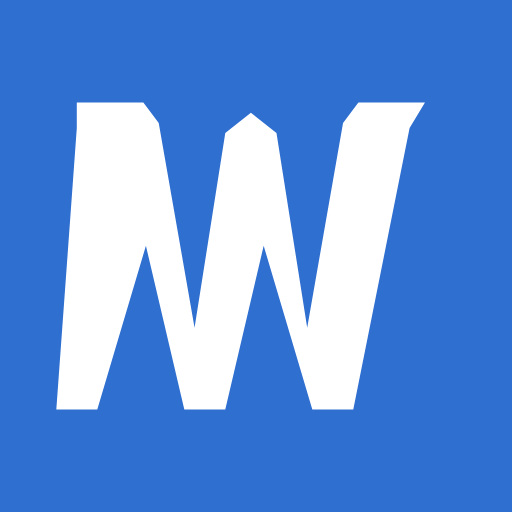
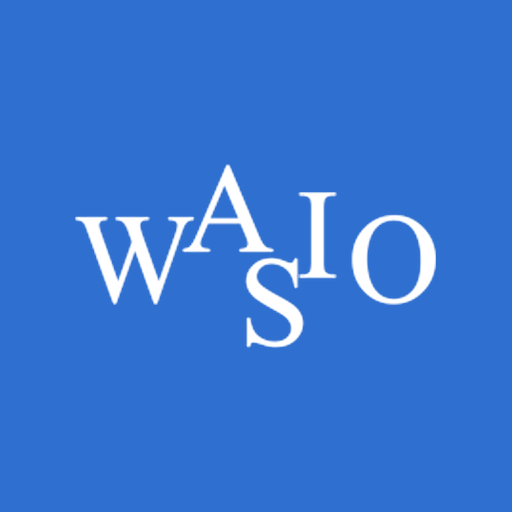
图标改用完整 WASIO；标题加 Wasio；页脚去掉词标
图标（用户指出笔画并未相交，应该能直接分离）
  根因：此前按固定列坐标 x=112 硬切，而 W 实际宽 181px，
  切点落在 W 身上 —— 右衬线被切掉，所以一直「只露出一部分 W」。
  正解：用**连通域标记**分离字母。实测整幅词标恰好 5 个连通域，
  每个字母一个（W 面积 6863、包围盒 1..182），完全不用猜切点。
  按用户要求图标改为**完整 WASIO**（不再只放 W）：
  - favicon.ico（16/32/48/64）、icon-192/512、apple-touch-icon
    均为蓝底 + 完整白色 WASIO；小尺寸略作加粗以抵消抗锯齿变淡；
  - 四周留白充足，实测无任何一边贴边裁切；
  - 删除不再使用的 brand-mark.png（W 方块）与 favicon.svg。

标题
  - 5 个页面 <title> 加「Wasio的」；
  - paper.js / question.js 里动态设置的标题同步改为
    「… — Wasio的物理竞赛题库」；
  - 顶栏标题改为「Wasio的物理竞赛题库」，标识换成完整 WASIO 词标
    （brand-word.png，深色版适配浅色顶栏）。

页脚
  - 按需求删掉页脚的 WASIO 词标（wasio-word.png 一并删除）；
  - B 站链接两处保留（正文内 + 独立的「WASIO 的 B 站主页」一行）。

验收：标题/图标/页脚 39/39、页脚 44/44、页脚链接、题库页 12/12、
试卷标签 10/10、考点导航页 44/44、全量数据全部通过。

Changed region(s): [[0.0938, 0.1875, 0.875, 0.8125]]

diff --git a/index.html b/index.html
@@ -3,10 +3,9 @@
 <head>
 <meta charset="UTF-8">
 <meta name="viewport" content="width=device-width, initial-scale=1">
-<title>物理竞赛题库</title>
+<title>Wasio的物理竞赛题库</title>
 <meta name="description" content="高中物理竞赛题库：试卷、题目、详细解析与答案，含难度评分与考点标签。">
 <link rel="stylesheet" href="assets/app.css">
-<link rel="icon" type="image/svg+xml" href="assets/favicon.svg">
 <link rel="icon" href="assets/favicon.ico" sizes="any">
 <link rel="icon" type="image/png" href="assets/icon-192.png" sizes="192x192">
 <link rel="apple-touch-icon" href="assets/apple-touch-icon.png">
@@ -60,7 +59,6 @@
 </main>
 
 <footer class="footer footer-center">
-  <img class="footer-brand" src="assets/wasio-word.png" alt="WASIO" height="22">
   <p class="footer-line">
     物理竞赛题库 · 内容来自<a href="https://space.bilibili.com/1382640092" target="_blank" rel="noopener">个人整理的竞赛试卷资料</a>，仅供学习交流使用。
   </p>

diff --git a/tags.html b/tags.html
@@ -3,9 +3,8 @@
 <head>
 <meta charset="UTF-8">
 <meta name="viewport" content="width=device-width, initial-scale=1">
-<title>考点导航 — 物理竞赛题库</title>
+<title>Wasio的考点导航 — 物理竞赛题库</title>
 <link rel="stylesheet" href="assets/app.css">
-<link rel="icon" type="image/svg+xml" href="assets/favicon.svg">
 <link rel="icon" href="assets/favicon.ico" sizes="any">
 <link rel="icon" type="image/png" href="assets/icon-192.png" sizes="192x192">
 <link rel="apple-touch-icon" href="assets/apple-touch-icon.png">
@@ -52,7 +51,6 @@
 </main>
 
 <footer class="footer">
-  <img class="footer-brand" src="assets/wasio-word.png" alt="WASIO" height="22">
   <p class="footer-line">
     物理竞赛题库 · 内容来自<a href="https://space.bilibili.com/1382640092" target="_blank" rel="noopener">个人整理的竞赛试卷资料</a>，仅供学习交流使用。
   </p>

diff --git a/assets/app.css b/assets/app.css
@@ -157,11 +157,11 @@ a:hover { text-decoration: underline; }
 }
 .brand:hover { text-decoration: none; }
 
-.brand-mark {
-  width: 28px; height: 28px;
-  border-radius: 7px;
-  /* 图标 PNG 自带蓝底圆角，这里不再叠背景渐变与文字样式 */
+/* 顶栏词标：完整 WASIO 的横向 PNG，高度与文字对齐 */
+.brand-word {
   display: block;
+  height: 22px;
+  width: auto;
   flex: none;
   object-fit: contain;
 }
@@ -771,18 +771,6 @@ select.ctl:focus {
   color: var(--ink-mute);
   line-height: 1.8;
 }
-
-/* 页脚品牌词标：本站作者标识 */
-.footer-brand {
-  display: block;
-  height: 22px;
-  width: auto;
-  margin-bottom: 10px;
-  /* 词标是深色字，浅灰页脚上对比略弱，降一点不透明度更协调 */
-  opacity: 0.75;
-}
-
-.footer-center .footer-brand { margin-left: auto; margin-right: auto; }
 
 .footer-line { margin: 0; }
 

diff --git a/library.html b/library.html
@@ -3,9 +3,8 @@
 <head>
 <meta charset="UTF-8">
 <meta name="viewport" content="width=device-width, initial-scale=1">
-<title>题库 — 物理竞赛题库</title>
+<title>Wasio的题库 — 物理竞赛题库</title>
 <link rel="stylesheet" href="assets/app.css">
-<link rel="icon" type="image/svg+xml" href="assets/favicon.svg">
 <link rel="icon" href="assets/favicon.ico" sizes="any">
 <link rel="icon" type="image/png" href="assets/icon-192.png" sizes="192x192">
 <link rel="apple-touch-icon" href="assets/apple-touch-icon.png">
@@ -48,7 +47,6 @@
 </main>
 
 <footer class="footer">
-  <img class="footer-brand" src="assets/wasio-word.png" alt="WASIO" height="22">
   <p class="footer-line">
     物理竞赛题库 · 内容来自<a href="https://space.bilibili.com/1382640092" target="_blank" rel="noopener">个人整理的竞赛试卷资料</a>，仅供学习交流使用。
   </p>

diff --git a/paper.html b/paper.html
@@ -3,9 +3,8 @@
 <head>
 <meta charset="UTF-8">
 <meta name="viewport" content="width=device-width, initial-scale=1">
-<title>试卷 — 物理竞赛题库</title>
+<title>Wasio的试卷 — 物理竞赛题库</title>
 <link rel="stylesheet" href="assets/app.css">
-<link rel="icon" type="image/svg+xml" href="assets/favicon.svg">
 <link rel="icon" href="assets/favicon.ico" sizes="any">
 <link rel="icon" type="image/png" href="assets/icon-192.png" sizes="192x192">
 <link rel="apple-touch-icon" href="assets/apple-touch-icon.png">
@@ -34,7 +33,6 @@
 </main>
 
 <footer class="footer">
-  <img class="footer-brand" src="assets/wasio-word.png" alt="WASIO" height="22">
   <p class="footer-line">
     物理竞赛题库 · 内容来自<a href="https://space.bilibili.com/1382640092" target="_blank" rel="noopener">个人整理的竞赛试卷资料</a>，仅供学习交流使用。
   </p>

diff --git a/question.html b/question.html
@@ -3,9 +3,8 @@
 <head>
 <meta charset="UTF-8">
 <meta name="viewport" content="width=device-width, initial-scale=1">
-<title>题目 — 物理竞赛题库</title>
+<title>Wasio的题目 — 物理竞赛题库</title>
 <link rel="stylesheet" href="assets/app.css">
-<link rel="icon" type="image/svg+xml" href="assets/favicon.svg">
 <link rel="icon" href="assets/favicon.ico" sizes="any">
 <link rel="icon" type="image/png" href="assets/icon-192.png" sizes="192x192">
 <link rel="apple-touch-icon" href="assets/apple-touch-icon.png">
@@ -47,7 +46,6 @@
 </main>
 
 <footer class="footer">
-  <img class="footer-brand" src="assets/wasio-word.png" alt="WASIO" height="22">
   <p class="footer-line">
     物理竞赛题库 · 内容来自<a href="https://space.bilibili.com/1382640092" target="_blank" rel="noopener">个人整理的竞赛试卷资料</a>，仅供学习交流使用。
   </p>

diff --git a/assets/app.js b/assets/app.js
@@ -400,8 +400,8 @@ function renderTopbar(crumbs = []) {
 
   bar.innerHTML = `
     <a class="brand" href="index.html">
-      <img class="brand-mark" src="assets/brand-mark.png" alt="" width="28" height="28">
-      <span>物理竞赛题库</span>
+      <img class="brand-word" src="assets/brand-word.png" alt="Wasio">
+      <span>Wasio的物理竞赛题库</span>
     </a>
     ${parts ? `<span class="crumb">${parts}</span>` : ""}
     ${topNavHTML()}

diff --git a/assets/question.js b/assets/question.js
@@ -68,7 +68,7 @@ function renderQuestion() {
   const item = paper.questions[index];
   const total = paper.questions.length;
 
-  document.title = `${item.title} · ${paper.name} — 物理竞赛题库`;
+  document.title = `${item.title} · ${paper.name} — Wasio的物理竞赛题库`;
 
   // 面包屑
   renderTopbar([

diff --git a/assets/paper.js b/assets/paper.js
@@ -58,7 +58,7 @@ function apply() {
   try {
     const paper = await loadPaper(slug);
     state.paper = paper;
-    document.title = `${paper.name} — 物理竞赛题库`;
+    document.title = `${paper.name} — Wasio的物理竞赛题库`;
 
     const mix = {};
     paper.questions.forEach((it) => {
